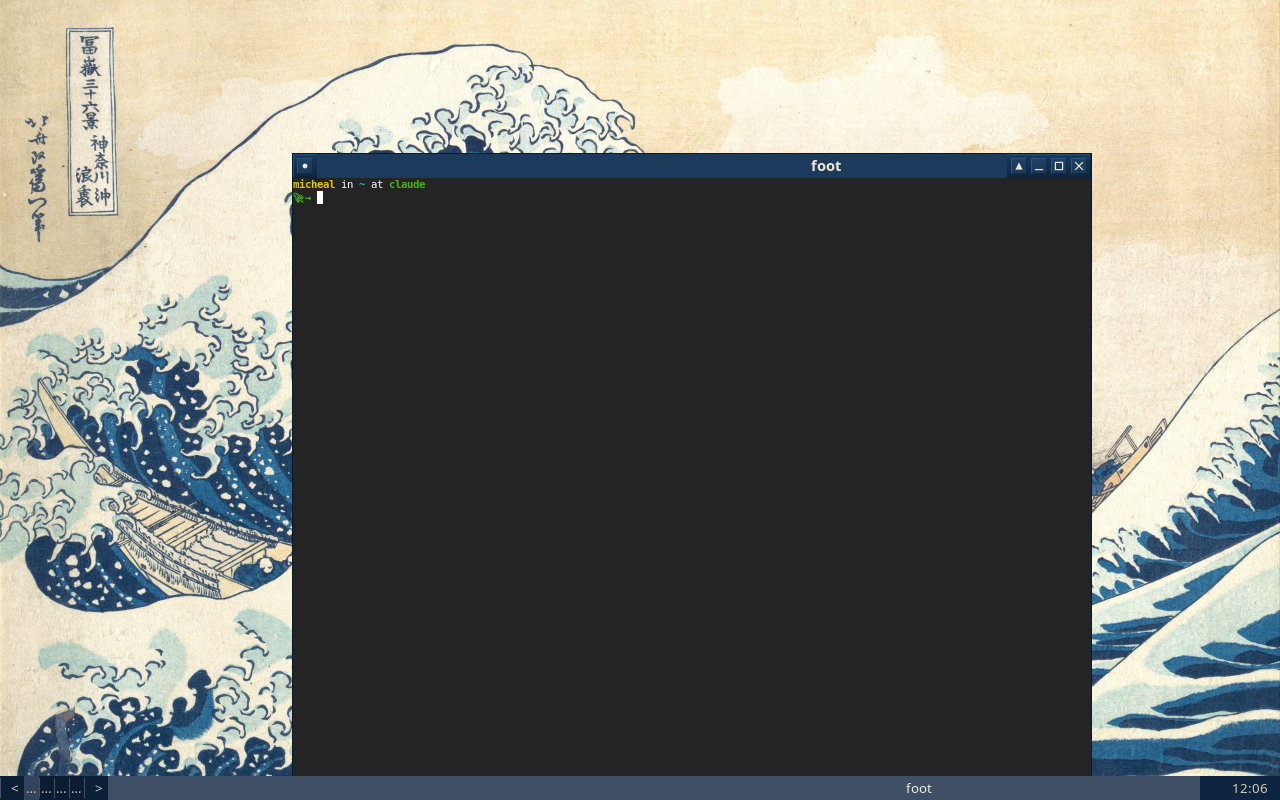
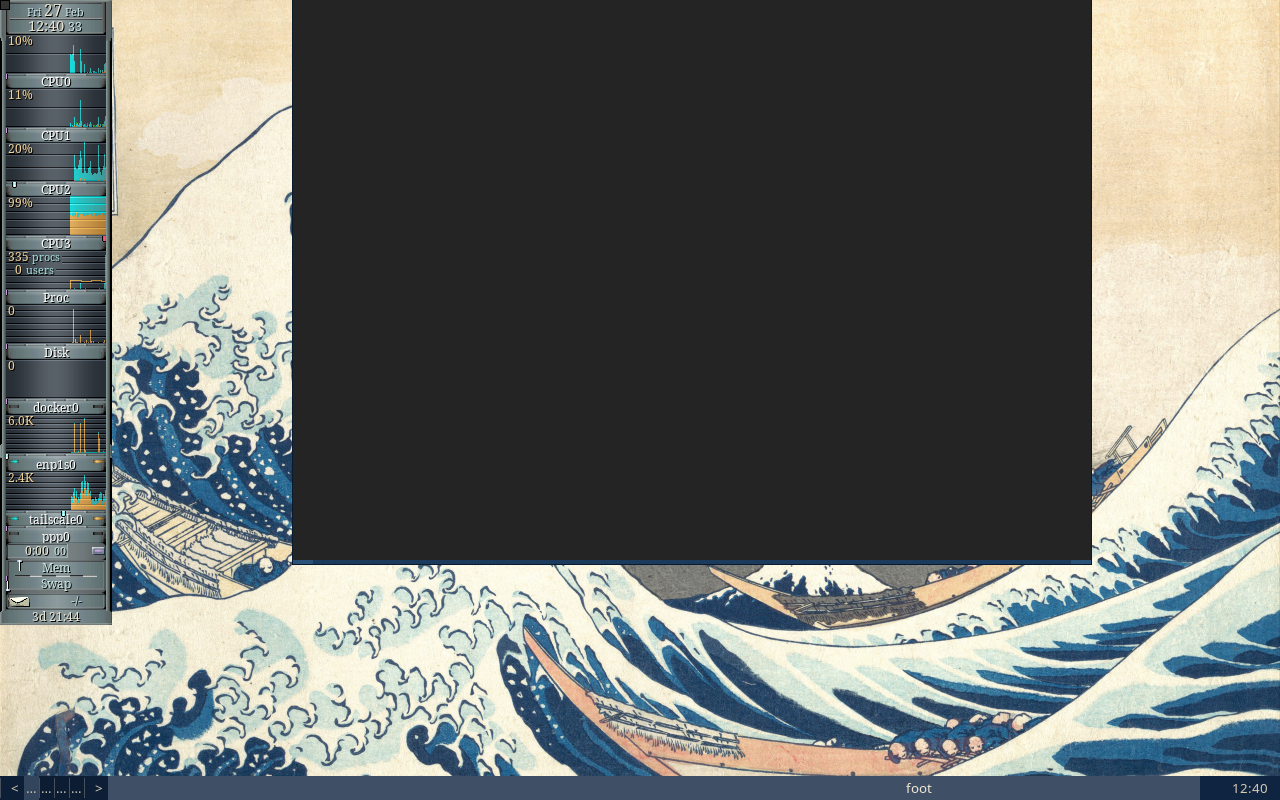
docs: update screenshots with gkrellm in slit via XWayland
Single window and cascade screenshots now show gkrellm docked in the
slit, demonstrating XWayland dockapp support. Updated README captions.

diff --git a/README.md b/README.md
@@ -40,9 +40,9 @@ the benefits of a modern Wayland session.
 | | |
 |---|---|
 | ![Desktop](docs/screenshots/desktop_wave.png) | ![Single Window](docs/screenshots/01_single_window.png) |
-| Desktop with wallpaper | Single terminal window |
+| Desktop with wallpaper | Single window with gkrellm in slit (XWayland) |
 | ![Tiled](docs/screenshots/02_tiled_windows.png) | ![Cascade](docs/screenshots/03_cascade.png) |
-| Two windows tiled left/right | Cascaded window layout |
+| Two windows tiled left/right | Cascaded windows with gkrellm in slit |
 | ![Menu](docs/screenshots/04_menu.png) | ![Grid](docs/screenshots/06_grid.png) |
 | Root menu | Grid arrangement (4 windows) |
 
